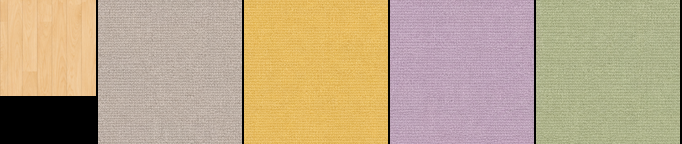
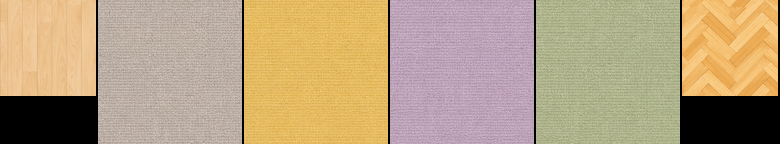
자작나무 사옥을 요정이 살 법한 거대한 나무 숲 위에 떠 있는 이끼 낀 섬의 숲속 사옥으로 바꿔, 섬 옆면에 흙과 늘어진 뿌리가 보이고, 헤링본 바닥과 아치 창의 업무 방, 판벽 서재, 요정 조명이 걸린 나무 아트리움, 카페 코너, 러그 위 소파 로비, 판벽 회의실로 레이아웃과 가구·장식을 새로 꾸몄다
- Codex로 숲 배경, 새 가구 9종, 벽 장식 12종, 러그 4종·헤링본·판벽 재질, 섬 옆면 띠를 만들었다
- 러그는 위에서 내려다본 그림을 바닥 마름모로 투영해 바닥 층에 깔아 사람이 밟고 지나가고, 벽 줄에 나무 판벽(Y·B)을 더했다
- 사옥 그림 묶음에 섬 옆면 띠가 있으면 바닥 판 옆면 대신 모서리를 따라 기울여 잇는다

diff --git a/src/web/lib/office/map-birch.ts b/src/web/lib/office/map-birch.ts
@@ -1,5 +1,6 @@
-// 자작나무 사옥(낮) 격자 지도. 위 BLOCKED 집중실, 오른쪽 WORKING 오픈 오피스, 왼쪽 DONE 로비(EXIT 유리문),
-// 아래 HANDOFF 유리 회의실, 가운데 큰 나무가 선 아트리움 홀. 칸 하나가 1m이고 x는 화면 오른쪽 아래, y는 왼쪽 아래로 뻗는다.
+// 자작나무 사옥(낮) 격자 지도: 요정 숲 위에 떠 있는 숲속 사옥. 위 BLOCKED 판벽 서재, 오른쪽 WORKING 헤링본 오픈 오피스,
+// 왼쪽 DONE 로비(EXIT 유리문), 아래 HANDOFF 유리 회의실, 가운데 요정 조명이 걸린 나무 아트리움과 카페 코너·독서 구석.
+// 섬 가장자리가 들쭉날쭉해 이끼·흙·뿌리 옆면이 드러난다. 칸 하나가 1m이고 x는 화면 오른쪽 아래, y는 왼쪽 아래로 뻗는다.
 import { deskGroup as desk, repeatRows as rows, type MapDef } from "./iso";
 import type { Theme } from "./world";
 
@@ -13,25 +14,33 @@ export const BIRCH_MAP: MapDef = {
   cols: 26, rows: 22,
   floor: rows([
     [8, "BBBBBBBBBHHHHWWWWWWWWWWWWW"],
-    [5, "HHHHHHHHHHHHHHHHHHHHHHHHHH"],
-    [1, "DDDDDDDDDHHHHHHHHHHHHHHHHH"],
-    [7, "DDDDDDDDDHHHHHFFFFFFFFHHHH"],
-    [1, "DDDDDDDDDHHHHHHHHHHHHHHHHH"],
+    [2, "HHHHHHHHHHHHHHHHHHHHHHHHHH"],
+    [3, "HHHHHHHHHHHHHHHHHHHHHHHH  "],
+    [1, "DDDDDDDDDHHHHHHHHHHHHHHH  "],
+    [7, "DDDDDDDDDHHHHHFFFFFFFHHH  "],
+    [1, "  DDDDDDDHHHHHHHHHHHH     "],
   ]),
   legend: {
     B: { zone: "blocked", floor: "mustard" },
-    W: { zone: "working", floor: "carpet" },
+    W: { zone: "working", floor: "herringbone" },
     H: { zone: "hall", floor: "wood" },
     D: { zone: "done", floor: "sage" },
     F: { zone: "handoff", floor: "lavender" },
   },
   walls: [
-    // 바깥 뒷벽(창)과 앞쪽 낮은 난간
+    // 바깥 뒷벽: 위는 아치 창이 난 흰 벽, 왼쪽은 서재 판벽·홀·로비(EXIT 유리문)
     { side: "n", x: 0, y: 0, pattern: "W".repeat(26) },
-    { side: "w", x: 0, y: 0, pattern: `${"W".repeat(17)}EE${"W".repeat(3)}` },
-    { side: "n", x: 0, y: 22, pattern: "L".repeat(26) },
-    { side: "w", x: 26, y: 0, pattern: "L".repeat(22) },
-    // BLOCKED 집중실: 앞쪽 두 면이 유리, 오른쪽에 출입구
+    { side: "w", x: 0, y: 0, pattern: "YYYYYYYYWWWWWWWWWEEWW" },
+    // 들쭉날쭉한 섬 가장자리의 낮은 난간
+    { side: "w", x: 26, y: 0, pattern: "L".repeat(10) },
+    { side: "n", x: 24, y: 10, pattern: "LL" },
+    { side: "w", x: 24, y: 10, pattern: "L".repeat(11) },
+    { side: "n", x: 21, y: 21, pattern: "LLL" },
+    { side: "w", x: 21, y: 21, pattern: "L" },
+    { side: "n", x: 2, y: 22, pattern: "L".repeat(19) },
+    { side: "n", x: 0, y: 21, pattern: "LL" },
+    { side: "w", x: 2, y: 21, pattern: "L" },
+    // BLOCKED 서재: 앞쪽 두 면이 유리, 오른쪽에 출입구
     { side: "n", x: 0, y: 8, pattern: "GGGGGGGGG" },
     { side: "w", x: 9, y: 0, pattern: "GGGGdGGG" },
     // WORKING: 낮은 칸막이와 트인 통로
@@ -40,24 +49,23 @@ export const BIRCH_MAP: MapDef = {
     // DONE 로비: 유리 벽과 출입구 둘
     { side: "n", x: 0, y: 13, pattern: "GGGGGGdGG" },
     { side: "w", x: 9, y: 13, pattern: "GGdGGGGGG" },
-    // HANDOFF 회의실: 뒤 두 면은 흰 벽, 앞 두 면은 유리
-    { side: "n", x: 14, y: 14, pattern: "WWWWWWWW" },
-    { side: "w", x: 14, y: 14, pattern: "WWWDWWW" },
-    { side: "n", x: 14, y: 21, pattern: "GGGGGGGG" },
-    { side: "w", x: 22, y: 14, pattern: "GGGGGGG" },
+    // HANDOFF 회의실: 뒤 두 면은 나무 판벽, 앞 두 면은 유리
+    { side: "n", x: 14, y: 14, pattern: "YYYYYYY" },
+    { side: "w", x: 14, y: 14, pattern: "YYYBYYY" },
+    { side: "n", x: 14, y: 21, pattern: "GGGGGGG" },
+    { side: "w", x: 21, y: 14, pattern: "GGGGGGG" },
   ],
   decor: [
-    ...[0, 1, 7, 8, 9, 10, 11, 12, 13, 14, 15, 20, 21, 22, 23, 24, 25].map((x) => ({ side: "n" as const, x, y: 0, sprite: "window" })),
-    ...[0, 1, 4, 6, 7, 8, 9, 11, 12].map((y) => ({ side: "w" as const, x: 0, y, sprite: "window" })),
-    { side: "w", x: 0, y: 10, sprite: "art1" },
-    { side: "w", x: 0, y: 2, sprite: "felt" }, { side: "w", x: 0, y: 3, sprite: "felt" },
-    { side: "w", x: 0, y: 17, sprite: "exit" },
-    { side: "w", x: 0, y: 16, sprite: "sconce" }, { side: "w", x: 0, y: 19, sprite: "sconce" },
-    { side: "w", x: 0, y: 20, sprite: "art2" },
+    ...[0, 1, 7, 8, 9, 10, 11, 12, 13, 14, 15, 22, 23, 24, 25].map((x) => ({ side: "n" as const, x, y: 0, sprite: "archWindow" })),
+    { side: "n", x: 20, y: 0, sprite: "moss" },
+    { side: "w", x: 0, y: 1, sprite: "fern" }, { side: "w", x: 0, y: 3, sprite: "shelf" },
+    { side: "w", x: 0, y: 6, sprite: "archWindow" }, { side: "w", x: 0, y: 7, sprite: "archWindow" },
+    ...[8, 9, 11, 12].map((y) => ({ side: "w" as const, x: 0, y, sprite: "archWindow" })),
+    { side: "w", x: 0, y: 10, sprite: "lantern" },
+    { side: "w", x: 0, y: 16, sprite: "lantern" }, { side: "w", x: 0, y: 17, sprite: "exit" },
+    { side: "w", x: 0, y: 19, sprite: "lantern" }, { side: "w", x: 0, y: 20, sprite: "macrame" },
     { side: "n", x: 19, y: 14, sprite: "tv" },
-    { side: "n", x: 21, y: 14, sprite: "clock" },
-    { side: "w", x: 14, y: 15, sprite: "whiteboard" },
-    { side: "w", x: 14, y: 19, sprite: "art1" },
+    { side: "w", x: 14, y: 15, sprite: "pinboard" }, { side: "w", x: 14, y: 19, sprite: "forestArt" },
   ],
   signs: [
     { side: "n", x: 2, y: 0, span: 5, title: "Blocked", sub: "입력 대기", zone: "blocked" },
@@ -68,26 +76,34 @@ export const BIRCH_MAP: MapDef = {
   ],
   items: [
     ...desks.flatMap((entry) => entry.items),
-    // BLOCKED
-    { sprite: "fig", x: 0, y: 0 }, { sprite: "cabinet", x: 3, y: 1 }, { sprite: "plant", x: 4, y: 1 },
-    { sprite: "bookshelf", x: 0, y: 2, flip: true }, { sprite: "lamp", x: 8, y: 7 }, { sprite: "plant", x: 8, y: 0 },
-    // WORKING
-    { sprite: "bookshelf", x: 16, y: 0 }, { sprite: "sideboard", x: 20, y: 0 }, { sprite: "printer", x: 25, y: 0 },
-    { sprite: "fig", x: 13, y: 0 }, { sprite: "cooler", x: 25, y: 3 }, { sprite: "fig", x: 25, y: 7 },
+    // BLOCKED 서재: 아치 책장과 레몬 나무, 둥근 짚 러그 위 푸프
+    { sprite: "monstera", x: 0, y: 0 }, { sprite: "archshelf", x: 3, y: 1 }, { sprite: "lemon", x: 4, y: 1 },
+    { sprite: "ladder", x: 8, y: 0 }, { sprite: "rugJute", x: 3, y: 4 }, { sprite: "poufs", x: 4, y: 5 },
+    { sprite: "lamp", x: 8, y: 7 }, { sprite: "plant", x: 0, y: 7 },
+    // WORKING: 헤링본 바닥, 창가 책장·사이드보드, 앞쪽 화단
+    { sprite: "monstera", x: 13, y: 0 }, { sprite: "archshelf", x: 16, y: 0 }, { sprite: "archshelf", x: 17, y: 0 },
+    { sprite: "sideboard", x: 20, y: 0 }, { sprite: "ladder", x: 24, y: 0 }, { sprite: "printer", x: 25, y: 0 },
+    { sprite: "cooler", x: 25, y: 3 }, { sprite: "lemon", x: 25, y: 7 },
     { sprite: "planter", x: 14, y: 7 }, { sprite: "planter", x: 22, y: 7 }, { sprite: "plant", x: 13, y: 7 },
-    // 홀
-    { sprite: "tree", x: 10, y: 9 }, { sprite: "bench", x: 14, y: 10 }, { sprite: "bench", x: 5, y: 10 },
-    { sprite: "lamp", x: 9, y: 8 }, { sprite: "plant", x: 12, y: 12 }, { sprite: "fig", x: 25, y: 8 },
-    { sprite: "planter", x: 23, y: 21 }, { sprite: "fig", x: 25, y: 13 }, { sprite: "bench", x: 23, y: 17, flip: true },
-    { sprite: "plant", x: 13, y: 21 }, { sprite: "lamp", x: 0, y: 8 },
-    // DONE 로비
+    // 홀: 요정 조명 나무 아트리움, 독서 구석, 카페 코너
+    { sprite: "fairytree", x: 10, y: 9 },
+    { sprite: "rugMoss", x: 4, y: 10 }, { sprite: "boucle", x: 4, y: 10 }, { sprite: "poufs", x: 5, y: 11 },
+    { sprite: "ladder", x: 2, y: 8 }, { sprite: "lamp", x: 0, y: 8 },
+    { sprite: "rugLeaf", x: 14, y: 10 }, { sprite: "bench", x: 15, y: 11 }, { sprite: "monstera", x: 23, y: 9 },
+    { sprite: "planter", x: 19, y: 12 },
+    { sprite: "coffeebar", x: 22, y: 13 }, { sprite: "communal", x: 22, y: 15, flip: true },
+    { sprite: "poufs", x: 23, y: 19 }, { sprite: "lemon", x: 23, y: 20 },
+    { sprite: "bench", x: 9, y: 18, flip: true }, { sprite: "monstera", x: 13, y: 20 }, { sprite: "planter", x: 17, y: 21 },
+    // DONE 로비: 둥근 짚 러그 위 소파·부클레 의자·탁자, 안내 데스크와 코트걸이
     { sprite: "reception", x: 1, y: 14 }, { sprite: "coatrack", x: 0, y: 13 },
-    { sprite: "sofa", x: 3, y: 16, flip: true }, { sprite: "armchair", x: 4, y: 15 }, { sprite: "coffee", x: 4, y: 16 },
-    { sprite: "fig", x: 8, y: 21 }, { sprite: "plant", x: 0, y: 21 }, { sprite: "lamp", x: 8, y: 14 },
-    // HANDOFF
-    { sprite: "meeting", x: 16, y: 16 }, { sprite: "mchair", x: 16, y: 18 }, { sprite: "mchair", x: 17, y: 18 },
+    { sprite: "rugJute", x: 3, y: 16 }, { sprite: "sofa", x: 3, y: 17, flip: true }, { sprite: "boucle", x: 4, y: 16 },
+    { sprite: "coffee", x: 4, y: 17 }, { sprite: "monstera", x: 8, y: 13 }, { sprite: "lamp", x: 8, y: 21 },
+    { sprite: "lemon", x: 2, y: 21 },
+    // HANDOFF: 둥근 러그 위 회의 탁자
+    { sprite: "rugJute", x: 16, y: 15 }, { sprite: "meeting", x: 16, y: 16 },
+    { sprite: "mchair", x: 16, y: 18 }, { sprite: "mchair", x: 17, y: 18 },
     { sprite: "mchairFront", x: 15, y: 16 }, { sprite: "mchairFront", x: 17, y: 15, flip: true },
-    { sprite: "fig", x: 21, y: 14 }, { sprite: "sideboard", x: 15, y: 20 }, { sprite: "plant", x: 21, y: 20 },
+    { sprite: "monstera", x: 20, y: 14 }, { sprite: "sideboard", x: 15, y: 20 }, { sprite: "plant", x: 20, y: 20 },
   ],
   seats: [
     ...desks.flatMap((entry) => entry.seats),
@@ -96,35 +112,35 @@ export const BIRCH_MAP: MapDef = {
     { id: "h-3", zone: "handoff", x: 15, y: 16, kind: "lounge" },
     { id: "h-4", zone: "handoff", x: 17, y: 15, kind: "lounge", flip: true },
     { id: "h-5", zone: "handoff", x: 19, y: 17, kind: "stand", view: "back", flip: true },
-    { id: "d-sofa1", zone: "done", x: 3, y: 16, kind: "lounge" },
-    { id: "d-sofa2", zone: "done", x: 3, y: 17, kind: "lounge" },
-    { id: "d-arm", zone: "done", x: 4, y: 15, kind: "lounge", flip: true },
+    { id: "d-sofa1", zone: "done", x: 3, y: 17, kind: "lounge" },
+    { id: "d-sofa2", zone: "done", x: 3, y: 18, kind: "lounge" },
+    { id: "d-arm", zone: "done", x: 4, y: 16, kind: "lounge", flip: true },
     { id: "d-1", zone: "done", x: 6, y: 15, kind: "stand", view: "front", flip: true },
     { id: "d-2", zone: "done", x: 6, y: 18, kind: "stand", view: "front" },
     { id: "d-3", zone: "done", x: 2, y: 19, kind: "stand", view: "front" },
     { id: "d-4", zone: "done", x: 5, y: 20, kind: "stand", view: "front", flip: true },
     { id: "d-5", zone: "done", x: 7, y: 17, kind: "stand", view: "back", flip: true },
-    { id: "d-6", zone: "done", x: 3, y: 21, kind: "stand", view: "back" },
+    { id: "d-6", zone: "done", x: 4, y: 21, kind: "stand", view: "back" },
     { id: "d-7", zone: "done", x: 7, y: 20, kind: "stand", view: "front", flip: true },
   ],
   hall: {
     center: [13, 10],
-    spawn: [[12, 8], [9, 11], [13, 12], [16, 9], [20, 11], [11, 15], [4, 12], [23, 10]],
-    wander: [[8, 9], [12, 11], [9, 12], [16, 12], [18, 9], [21, 12], [3, 10], [11, 18], [24, 15], [7, 12], [10, 20], [19, 11]],
+    spawn: [[13, 8], [9, 10], [14, 12], [16, 9], [20, 11], [11, 17], [3, 12], [21, 16]],
+    wander: [[8, 9], [13, 9], [9, 12], [17, 12], [19, 9], [21, 11], [2, 10], [11, 15], [11, 19], [21, 18], [15, 21], [7, 12]],
   },
   exit: [0, 17],
-  logo: { x: 19.5, y: 10, text: "RELAY" },
+  logo: { x: 19, y: 10, text: "RELAY" },
 };
 
 export const BIRCH_THEME: Theme = {
-  sky: ["#cfe5f2", "#f4efe3"],
-  glow: "rgba(255, 255, 255, 0.22)",
-  slab: ["#d8cbb3", "#bfae92"],
+  sky: ["#dcefd6", "#f4f0de"],
+  glow: "rgba(255, 248, 214, 0.2)",
+  slab: ["#7a5a3a", "#5f452c"],
   grid: "rgba(70, 50, 20, 0.07)",
   shade: 0.85,
   sign: "plate",
-  logo: "rgba(120, 88, 46, 0.34)",
-  ghost: "rgba(70, 96, 150, 0.85)",
-  backdrop: "/office/backdrop-birch.webp?v=1",
-  drop: "rgba(96, 68, 32, 0.42)",
+  logo: "rgba(120, 88, 46, 0.2)",
+  ghost: "rgba(70, 110, 80, 0.85)",
+  backdrop: "/office/backdrop-birch.webp?v=2",
+  drop: "rgba(40, 64, 24, 0.38)",
 };

diff --git a/src/web/lib/office/kit-birch.ts b/src/web/lib/office/kit-birch.ts
@@ -1,4 +1,4 @@
 // 자작나무 사옥 그림 묶음. 저장소 밖 작업 폴더(output/office/kit)의 build_kit.py가 만든다. 손으로 고치지 않는다.
 import type { Kit } from "./iso";
 
-export const BIRCH_KIT: Kit = {"atlas":"/office/kit-birch.png?v=1","floors":"/office/floors-birch.png?v=1","floorTiles":{"wood":[0,0,96,2],"carpet":[98,0,144,3],"mustard":[244,0,144,3],"lavender":[390,0,144,3],"sage":[536,0,144,3]},"items":{"desk":{"r":[388,191,96,73],"a":[32,25],"f":[2,1]},"bookshelf":{"r":[94,191,94,79],"a":[31,31],"f":[2,1]},"cabinet":{"r":[390,279,45,52],"a":[22,28],"f":[1,1]},"sofa":{"r":[247,191,94,74],"a":[31,26],"f":[2,1]},"armchair":{"r":[856,191,61,64],"a":[30,32],"f":[1,1]},"coffee":{"r":[147,279,61,57],"a":[23,40],"f":[1,1]},"meeting":{"r":[241,0,154,111],"a":[61,31],"f":[3,2]},"reception":{"r":[737,0,128,100],"a":[64,36],"f":[2,2]},"bench":{"r":[57,279,88,57],"a":[28,9],"f":[2,1]},"plant":{"r":[865,279,26,34],"a":[14,15],"f":[1,1]},"fig":{"r":[343,191,43,74],"a":[22,54],"f":[1,1]},"planter":{"r":[0,191,92,86],"a":[30,38],"f":[2,1]},"coatrack":{"r":[707,191,37,66],"a":[20,44],"f":[1,1]},"cooler":{"r":[495,279,18,46],"a":[9,26],"f":[1,1]},"printer":{"r":[190,191,55,78],"a":[28,52],"f":[1,1]},"lamp":{"r":[552,191,25,70],"a":[12,50],"f":[1,1]},"tree":{"r":[0,0,151,189],"a":[74,125],"f":[2,2]},"sideboard":{"r":[867,0,92,99],"a":[30,51],"f":[2,1]},"chair":{"r":[579,279,33,44],"a":[16,28],"cover":true,"f":[1,1]},"mchair":{"r":[720,279,33,38],"a":[16,22],"cover":true,"f":[1,1]},"mchairFront":{"r":[755,279,28,38],"a":[14,22],"f":[1,1]}},"walls":{"wall":{"n":{"r":[153,0,42,112],"a":[5,92]},"w":{"r":[197,0,42,112],"a":[37,92]}},"glass":{"n":{"r":[397,0,38,110],"a":[3,91]},"w":{"r":[437,0,38,110],"a":[35,91]}},"header":{"n":{"r":[632,279,42,38],"a":[5,92]},"w":{"r":[676,279,42,38],"a":[37,92]}},"glassHeader":{"n":{"r":[785,279,38,36],"a":[3,91]},"w":{"r":[825,279,38,36],"a":[35,91]}},"low":{"n":{"r":[210,279,42,54],"a":[5,34]},"w":{"r":[254,279,42,54],"a":[37,34]}}},"posts":{"wall":{"r":[961,0,16,98],"a":[8,93]},"glass":{"r":[979,0,10,96],"a":[5,92]},"low":{"r":[614,279,16,40],"a":[8,35]}},"decor":{"window":{"span":1,"n":{"r":[486,191,31,72],"a":[2,72]},"w":{"r":[519,191,31,72],"a":[29,72]}},"exit":{"span":2,"n":{"r":[477,0,63,106],"a":[2,72]},"w":{"r":[542,0,63,106],"a":[61,72]}},"exitOpen":{"span":2,"n":{"r":[607,0,63,106],"a":[2,72]},"w":{"r":[672,0,63,106],"a":[61,72]}},"whiteboard":{"span":2,"n":{"r":[579,191,62,67],"a":[2,55]},"w":{"r":[643,191,62,67],"a":[60,55]}},"tv":{"span":2,"n":{"r":[919,191,55,62],"a":[-2,54]},"w":{"r":[0,279,55,62],"a":[57,54]}},"cork":{"span":2,"n":{"r":[746,191,53,65],"a":[-3,55]},"w":{"r":[801,191,53,65],"a":[56,55]}},"art1":{"span":1,"n":{"r":[437,279,27,48],"a":[0,65]},"w":{"r":[466,279,27,48],"a":[27,65]}},"art2":{"span":2,"n":{"r":[298,279,44,53],"a":[-7,59]},"w":{"r":[344,279,44,53],"a":[51,59]}},"clock":{"span":1,"n":{"r":[893,279,21,31],"a":[-3,75]},"w":{"r":[916,279,21,31],"a":[24,75]}},"sconce":{"span":1,"n":{"r":[939,279,17,27],"a":[-5,62]},"w":{"r":[958,279,17,27],"a":[22,62]}},"felt":{"span":1,"n":{"r":[515,279,30,45],"a":[2,59]},"w":{"r":[547,279,30,45],"a":[28,59]}}}};
+export const BIRCH_KIT: Kit = {"atlas":"/office/kit-birch.png?v=3","floors":"/office/floors-birch.png?v=3","floorTiles":{"wood":[0,0,96,2],"carpet":[98,0,144,3],"mustard":[244,0,144,3],"lavender":[390,0,144,3],"sage":[536,0,144,3],"herringbone":[682,0,96,2]},"items":{"desk":{"r":[0,385,96,73],"a":[32,25],"f":[2,1]},"bookshelf":{"r":[380,299,94,79],"a":[31,31],"f":[2,1]},"cabinet":{"r":[903,460,45,52],"a":[22,28],"f":[1,1]},"sofa":{"r":[847,299,94,74],"a":[31,26],"f":[2,1]},"armchair":{"r":[656,385,61,64],"a":[30,32],"f":[1,1]},"coffee":{"r":[442,460,61,57],"a":[23,40],"f":[1,1]},"meeting":{"r":[538,0,154,111],"a":[61,31],"f":[3,2]},"reception":{"r":[263,191,128,100],"a":[64,36],"f":[2,2]},"bench":{"r":[352,460,88,57],"a":[28,9],"f":[2,1]},"plant":{"r":[718,524,26,34],"a":[14,15],"f":[1,1]},"fig":{"r":[943,299,43,74],"a":[22,54],"f":[1,1]},"planter":{"r":[694,191,92,86],"a":[30,38],"f":[2,1]},"coatrack":{"r":[507,385,37,66],"a":[20,44],"f":[1,1]},"cooler":{"r":[87,524,18,46],"a":[9,26],"f":[1,1]},"printer":{"r":[790,299,55,78],"a":[28,52],"f":[1,1]},"lamp":{"r":[164,385,25,70],"a":[12,50],"f":[1,1]},"tree":{"r":[0,0,151,189],"a":[74,125],"f":[2,2]},"sideboard":{"r":[393,191,92,99],"a":[30,51],"f":[2,1]},"chair":{"r":[171,524,33,44],"a":[16,28],"cover":true,"f":[1,1]},"mchair":{"r":[573,524,33,38],"a":[16,22],"cover":true,"f":[1,1]},"mchairFront":{"r":[608,524,28,38],"a":[14,22],"f":[1,1]},"coffeebar":{"r":[232,299,96,80],"a":[32,32],"f":[2,1]},"monstera":{"r":[453,385,52,66],"a":[26,44],"f":[1,1]},"ladder":{"r":[123,460,44,60],"a":[22,33],"f":[1,1]},"poufs":{"r":[316,524,61,40],"a":[43,16],"f":[1,1]},"communal":{"r":[487,191,157,98],"a":[62,18],"f":[3,2]},"boucle":{"r":[287,460,63,58],"a":[32,26],"f":[1,1]},"fairytree":{"r":[153,0,207,172],"a":[102,87],"f":[3,3]},"archshelf":{"r":[330,299,48,80],"a":[26,53],"f":[1,1]},"lemon":{"r":[950,460,37,50],"a":[18,31],"f":[1,1]},"rugJute":{"r":[65,191,196,100],"a":[98,2],"floor":true,"f":[3,3]},"rugLeaf":{"r":[788,191,164,84],"a":[66,2],"floor":true,"f":[3,2]},"rugKilim":{"r":[0,299,164,84],"a":[66,2],"floor":true,"f":[3,2]},"rugMoss":{"r":[191,385,132,68],"a":[66,2],"floor":true,"f":[2,2]}},"walls":{"wall":{"n":{"r":[362,0,42,112],"a":[5,92]},"w":{"r":[406,0,42,112],"a":[37,92]}},"glass":{"n":{"r":[694,0,38,110],"a":[3,91]},"w":{"r":[734,0,38,110],"a":[35,91]}},"header":{"n":{"r":[397,524,42,38],"a":[5,92]},"w":{"r":[441,524,42,38],"a":[37,92]}},"glassHeader":{"n":{"r":[638,524,38,36],"a":[3,91]},"w":{"r":[678,524,38,36],"a":[35,91]}},"low":{"n":{"r":[723,460,42,54],"a":[5,34]},"w":{"r":[767,460,42,54],"a":[37,34]}},"wood":{"n":{"r":[450,0,42,112],"a":[5,92]},"w":{"r":[494,0,42,112],"a":[37,92]}},"woodHeader":{"n":{"r":[485,524,42,38],"a":[5,92]},"w":{"r":[529,524,42,38],"a":[37,92]}}},"posts":{"wall":{"r":[646,191,16,98],"a":[8,93]},"glass":{"r":[682,191,10,96],"a":[5,92]},"low":{"r":[379,524,16,40],"a":[8,35]},"wood":{"r":[664,191,16,98],"a":[8,93]}},"decor":{"window":{"span":1,"n":{"r":[98,385,31,72],"a":[2,72]},"w":{"r":[131,385,31,72],"a":[29,72]}},"exit":{"span":2,"n":{"r":[774,0,63,106],"a":[2,72]},"w":{"r":[839,0,63,106],"a":[61,72]}},"exitOpen":{"span":2,"n":{"r":[904,0,63,106],"a":[2,72]},"w":{"r":[0,191,63,106],"a":[61,72]}},"whiteboard":{"span":2,"n":{"r":[325,385,62,67],"a":[2,55]},"w":{"r":[389,385,62,67],"a":[60,55]}},"tv":{"span":2,"n":{"r":[953,385,55,62],"a":[-2,54]},"w":{"r":[0,460,55,62],"a":[57,54]}},"cork":{"span":2,"n":{"r":[546,385,53,65],"a":[-3,55]},"w":{"r":[601,385,53,65],"a":[56,55]}},"art1":{"span":1,"n":{"r":[989,460,27,48],"a":[0,65]},"w":{"r":[0,524,27,48],"a":[27,65]}},"art2":{"span":2,"n":{"r":[811,460,44,53],"a":[-7,59]},"w":{"r":[857,460,44,53],"a":[51,59]}},"clock":{"span":1,"n":{"r":[746,524,21,31],"a":[-3,75]},"w":{"r":[769,524,21,31],"a":[24,75]}},"sconce":{"span":1,"n":{"r":[876,524,17,27],"a":[-5,62]},"w":{"r":[895,524,17,27],"a":[22,62]}},"felt":{"span":1,"n":{"r":[107,524,30,45],"a":[2,59]},"w":{"r":[139,524,30,45],"a":[28,59]}},"archWindow":{"span":1,"n":{"r":[166,299,31,84],"a":[2,74]},"w":{"r":[199,299,31,84],"a":[29,74]}},"moss":{"span":2,"n":{"r":[719,385,60,64],"a":[1,58]},"w":{"r":[781,385,60,64],"a":[59,58]}},"slats":{"span":1,"n":{"r":[57,460,31,62],"a":[2,66]},"w":{"r":[90,460,31,62],"a":[29,66]}},"fern":{"span":1,"n":{"r":[29,524,27,48],"a":[0,63]},"w":{"r":[58,524,27,48],"a":[27,63]}},"mirror":{"span":1,"n":{"r":[256,524,28,43],"a":[1,61]},"w":{"r":[286,524,28,43],"a":[27,61]}},"shelf":{"span":2,"n":{"r":[601,460,59,54],"a":[0,61]},"w":{"r":[662,460,59,54],"a":[59,61]}},"macrame":{"span":1,"n":{"r":[206,524,23,44],"a":[-2,62]},"w":{"r":[231,524,23,44],"a":[25,62]}},"forestArt":{"span":2,"n":{"r":[505,460,46,56],"a":[-6,58]},"w":{"r":[553,460,46,56],"a":[52,58]}},"ivy":{"span":2,"n":{"r":[169,460,57,59],"a":[-1,66]},"w":{"r":[228,460,57,59],"a":[58,66]}},"lantern":{"span":1,"n":{"r":[838,524,17,30],"a":[-5,63]},"w":{"r":[857,524,17,30],"a":[22,63]}},"pinboard":{"span":2,"n":{"r":[843,385,53,63],"a":[-3,55]},"w":{"r":[898,385,53,63],"a":[56,55]}},"clock2":{"span":1,"n":{"r":[792,524,21,31],"a":[-3,75]},"w":{"r":[815,524,21,31],"a":[24,75]}}},"edge":{"r":[476,299,312,78],"a":[0,6]}};

diff --git a/src/web/lib/office/world.ts b/src/web/lib/office/world.ts
@@ -249,13 +249,13 @@ export class World {
       const sprite = kit.walls[wall.kind]![wall.side];
       const [x, y] = this.point(wall.x, wall.y);
       const box: Drawable["box"] = wall.side === "n" ? [wall.x, wall.x + 1, wall.y - THIN, wall.y + THIN] : [wall.x - THIN, wall.x + THIN, wall.y, wall.y + 1];
-      list.push({ box, layer: 0, solid: wall.kind === "wall" || wall.kind === "header", rect: this.spriteRect(sprite, x, y), paint: (context) => this.blitSprite(context, sprite, x, y) });
+      list.push({ box, layer: 0, solid: wall.kind === "wall" || wall.kind === "header" || wall.kind === "wood" || wall.kind === "woodHeader", rect: this.spriteRect(sprite, x, y), paint: (context) => this.blitSprite(context, sprite, x, y) });
     }
     for (const post of plan.posts) {
       const sprite = kit.posts[post.kind];
       if (!sprite) continue;
       const [x, y] = this.point(post.x, post.y);
-      list.push({ box: [post.x - THIN, post.x + THIN, post.y - THIN, post.y + THIN], layer: 0, solid: post.kind === "wall", rect: this.spriteRect(sprite, x, y), paint: (context) => this.blitSprite(context, sprite, x, y) });
+      list.push({ box: [post.x - THIN, post.x + THIN, post.y - THIN, post.y + THIN], layer: 0, solid: post.kind === "wall" || post.kind === "wood", rect: this.spriteRect(sprite, x, y), paint: (context) => this.blitSprite(context, sprite, x, y) });
     }
     for (const decor of plan.map.decor ?? []) {
       const entry = kit.decor[decor.sprite];
@@ -268,7 +268,8 @@ export class World {
       list.push({ box, layer: 0, rect: this.spriteRect(sprite, x, y), paint: (context) => this.blitSprite(context, open && this.exitOpen ? open : sprite, x, y) });
     }
     for (const sign of plan.map.signs ?? []) list.push(this.signDrawable(sign));
-    for (const item of plan.items) list.push(this.itemDrawable(item));
+    // 바닥 깔개(러그)는 바닥 층에 그렸으므로 앞뒤를 가릴 필요가 없다.
+    for (const item of plan.items) if (!item.item.floor) list.push(this.itemDrawable(item));
     return list;
   }
 
@@ -360,11 +361,19 @@ export class World {
     context.restore();
 
     // 바닥 판 옆면: 아래쪽(+y)과 오른쪽(+x)이 바깥인 칸의 모서리를 판 두께만큼 내려 그린다.
+    // 섬 옆면 띠가 있으면(자작나무 사옥) 이끼·흙·늘어진 뿌리 띠를 모서리를 따라 기울여 잇는다.
     context.setTransform(1, 0, 0, 1, 0, 0);
+    const edge = kit.edge ? this.edgePattern(context, kit.edge) : null;
     for (let y = 0; y < grid.rows; y++) for (let x = 0; x < grid.cols; x++) {
       if (!cellOf(x, y)) continue;
-      if (!cellOf(x, y + 1)) this.slabFace(context, this.point(x, y + 1), this.point(x + 1, y + 1), theme.slab[0]);
-      if (!cellOf(x + 1, y)) this.slabFace(context, this.point(x + 1, y + 1), this.point(x + 1, y), theme.slab[1]);
+      if (!cellOf(x, y + 1)) {
+        if (edge) this.edgeFace(context, edge, this.point(x, y + 1), this.point(x + 1, y + 1), this.point(0, y + 1), 0.5, 0.94);
+        else this.slabFace(context, this.point(x, y + 1), this.point(x + 1, y + 1), theme.slab[0]);
+      }
+      if (!cellOf(x + 1, y)) {
+        if (edge) this.edgeFace(context, edge, this.point(x + 1, y + 1), this.point(x + 1, y), this.point(x + 1, 0), -0.5, 0.8);
+        else this.slabFace(context, this.point(x + 1, y + 1), this.point(x + 1, y), theme.slab[1]);
+      }
     }
 
     // 재질마다 칸을 한 경로로 모아 이음매 없이 채운다.
@@ -414,6 +423,15 @@ export class World {
       if (down && down !== here) { context.moveTo(x, y + 1); context.lineTo(x + 1, y + 1); }
     }
     context.stroke();
+
+    // 바닥 깔개(러그): 재질·칸 선 위, 벽·가구 그늘 아래에 깐다. 사람이 밟고 지나간다.
+    context.setTransform(1, 0, 0, 1, 0, 0);
+    for (const item of plan.items) {
+      if (!item.item.floor) continue;
+      const [x, y] = this.point(item.x, item.y);
+      this.blitSprite(context, item.item, x, y, item.flip);
+    }
+    iso();
 
     // 벽 아래 그늘: 벽 양쪽 바닥으로 번지는 그러데이션. 바닥이 있는 칸 밖으로는 새지 않게 자른다.
     const clip = this.floorClip();
@@ -473,6 +491,32 @@ export class World {
     const path = new Path2D();
     for (let y = 0; y < grid.rows; y++) for (let x = 0; x < grid.cols; x++) if (this.plan.floors[y * grid.cols + x]) path.rect(x, y, 1, 1);
     return path;
+  }
+
+  /** 섬 옆면 띠를 무늬로 만든다(가로로만 되풀이). */
+  private edgePattern(context: CanvasRenderingContext2D, sprite: KitSprite) {
+    const [sx, sy, sw, sh] = sprite.r;
+    const strip = document.createElement("canvas");
+    strip.width = sw; strip.height = sh;
+    strip.getContext("2d")!.drawImage(this.atlas, sx, sy, sw, sh, 0, 0, sw, sh);
+    return { pattern: context.createPattern(strip, "repeat-x")!, height: sh, lift: sprite.a[1] };
+  }
+
+  /** 섬 옆면 한 칸: a→b 모서리 아래로 띠를 기울여 붙인다. origin은 그 모서리 줄의 기준점(띠가 줄을 따라 끊김 없이 이어진다), shade는 면 밝기 */
+  private edgeFace(context: CanvasRenderingContext2D, edge: { pattern: CanvasPattern; height: number; lift: number }, a: Point, b: Point, origin: Point, slope: number, shade: number) {
+    const top = edge.lift;
+    edge.pattern.setTransform(new DOMMatrix([1, slope, 0, 1, origin[0], origin[1] - top]));
+    context.save();
+    context.fillStyle = edge.pattern;
+    context.beginPath();
+    context.moveTo(a[0], a[1] - top);
+    context.lineTo(b[0], b[1] - top);
+    context.lineTo(b[0], b[1] - top + edge.height);
+    context.lineTo(a[0], a[1] - top + edge.height);
+    context.closePath();
+    context.fill();
+    if (shade < 1) { context.globalCompositeOperation = "source-atop"; context.fillStyle = `rgba(0, 0, 0, ${1 - shade})`; context.fill(); }
+    context.restore();
   }
 
   private slabFace(context: CanvasRenderingContext2D, a: Point, b: Point, color: string) {

diff --git a/src/web/lib/office/iso.ts b/src/web/lib/office/iso.ts
@@ -42,11 +42,13 @@ export interface Kit {
   posts: Record<string, KitSprite>;
   /** 벽에 붙이는 장식(창·문·화이트보드…). span칸 길이이고 기준점은 첫 조각의 시작 꼭짓점 바닥이다. */
   decor: Record<string, { n: KitSprite; w: KitSprite; span: number }>;
+  /** 떠 있는 섬의 옆면 띠(왼쪽·오른쪽으로 이음매 없이 되풀이). 있으면 바닥 판 옆면 대신 그린다. */
+  edge?: KitSprite;
 }
 
 /**
  * 벽 한 줄. side가 n이면 (x, y) 칸의 위쪽 모서리부터 x로, w면 왼쪽 모서리부터 y로 pattern 글자 수만큼 뻗는다.
- * W 벽, G 유리 칸막이, L 낮은 벽, D 문 없는 출입구(위에 인방), d 유리 칸막이의 출입구, O 트인 통로(기둥만), o 낮은 벽의 트인 통로,
+ * W 벽, Y 나무 판벽, G 유리 칸막이, L 낮은 벽, D 문 없는 출입구(위에 인방), B 나무 판벽의 출입구, d 유리 칸막이의 출입구, O 트인 통로(기둥만), o 낮은 벽의 트인 통로,
  * E 출구 유리문(퇴근하는 세션이 나간다), 공백은 벽 없음.
  */
 export interface WallRun { side: Side; x: number; y: number; pattern: string }
@@ -100,6 +102,8 @@ export interface WorldPlan {
 /** 벽 글자 → 그릴 벽 조각 종류(없으면 그리지 않음)와 지나갈 수 있는지 */
 const WALL_KINDS: Record<string, { kind: string | null; post: string | null; pass: boolean }> = {
   W: { kind: "wall", post: "wall", pass: false },
+  Y: { kind: "wood", post: "wood", pass: false },
+  B: { kind: "woodHeader", post: "wood", pass: true },
   G: { kind: "glass", post: "glass", pass: false },
   L: { kind: "low", post: "low", pass: false },
   D: { kind: "header", post: "wall", pass: true },
@@ -141,7 +145,7 @@ export function planWorld(map: MapDef, kit: Kit): WorldPlan {
   const posts = new Map<string, { x: number; y: number; kind: string }>();
   const post = (x: number, y: number, kind: string) => {
     const key = `${x},${y}`;
-    const rank = (value: string) => ["low", "glass", "wall"].indexOf(value);
+    const rank = (value: string) => ["low", "glass", "wood", "wall"].indexOf(value);
     const before = posts.get(key);
     if (!before || rank(kind) > rank(before.kind)) posts.set(key, { x, y, kind });
   };

diff --git a/src/web/public/office/README.md b/src/web/public/office/README.md
@@ -8,11 +8,12 @@
 | --- | --- | --- |
 | `kit-night.png`·`kit-birch.png`·`kit-oak.png` | 사옥마다 그림 묶음(아틀라스): 가구·소품 21종, 벽 조각(벽·유리 칸막이·낮은 벽·출입구 인방, 두 방향), 기둥, 벽 장식(창·출구 유리문/엘리베이터 닫힘·열림·화이트보드·TV·코르크 보드·그림·시계·벽등·흡음판, 두 방향) | 사옥 그림을 화풍 참조로 가구·소품·의자 시트(쿼터뷰, 마젠타 키)와 벽 장식 시트(정면, 초록 키)를 생성 → `sprite-gen cutout --decontam palette`로 키 색 번짐 제거 → 덩어리별로 잘라 가구는 바닥 넓이(예: 책상 2×1)에 맞춰 줄이고, 벽 장식은 정면 그림을 벽 면 기울기로 붙이고, 벽 조각·기둥은 벽 재질 그림으로 칸 하나 길이씩 그렸다 |
 | `floors-night.png`·`floors-birch.png`·`floors-oak.png` | 바닥 재질(홀·구역마다 하나). 정사각형 재질이 이음매 없이 되풀이되며 몇 칸을 덮는지는 `kit-*.ts`의 `floorTiles`에 있다 | 재질 시트를 생성 → `sprite-gen background-tile`(가로·세로)로 이음매 없게 → 큰 얼룩을 눌러 바둑판처럼 보이지 않게 했다. 줄눈이 있는 석재는 시트 그대로 쓴다 |
-| `backdrop-night.webp`·`backdrop-birch.webp`·`backdrop-oak.webp` | 사무실 아래에 까는 사옥 배경: 야간 본사는 별이 뜬 밤하늘과 저 아래 반짝이는 도시, 자작나무 사옥은 햇살 드는 북유럽 가구 회사 쇼룸, 오크 사옥은 노을 진 대도시 스카이라인 | 지금 사옥 화면을 색 참조로 주고, 가운데는 사무실이 덮으니 차분하게 두고 풍경은 가장자리·귀퉁이에 두도록 생성(1672×941) → WebP 품질 84. 화면 가득(cover) 깔고 확대·이동할 때 사무실보다 덜 움직여 멀리 있는 풍경처럼 보인다. 사무실 아래에는 떠 있는 그림자를 깐다 |
+| `backdrop-night.webp`·`backdrop-birch.webp`·`backdrop-oak.webp` | 사무실 아래에 까는 사옥 배경: 야간 본사는 별이 뜬 밤하늘과 저 아래 반짝이는 도시, 자작나무 사옥은 요정이 살 법한 거대한 나무(문·창·랜턴·흔들다리·빛나는 버섯)가 선 숲, 오크 사옥은 노을 진 대도시 스카이라인 | 지금 사옥 화면을 색 참조로 주고, 가운데는 사무실이 덮으니 차분하게 두고 풍경은 가장자리·귀퉁이에 두도록 생성(1672×941) → WebP 품질 84. 화면 가득(cover) 깔고 확대·이동할 때 사무실보다 덜 움직여 멀리 있는 풍경처럼 보인다. 사무실 아래에는 떠 있는 그림자를 깐다 |
 | `worker.png` | 캐릭터 아틀라스. 51×64 칸, 몸체 2종 × 9줄(앞·뒤 대기, 앞·뒤 걷기, 앉기, 타이핑, 앉아 쉬기, 등 잡혀 버둥거리기, 소파에 앞 보고 앉기) | 보라 머리·하늘 셔츠·남색 바지의 재색칠용 베이스 → sprite-gen 방향 앵커(down45·up45) → 동작 행. 원본 배율로 추출한 뒤 머리 높이로 행 배율을 맞추고 40색 공용 팔레트로 줄였다 |
 | `badges.png` | 머리 위 상태 배지 5개(작업 중 말줄임, 막힘 느낌표, 인계 화살표, 완료 체크, 종료 잠) | 한 장에 생성한 뒤 조각마다 15px 높이로 줄였다 |
 
-- 사옥 지도(바닥 글자·벽 줄·장식·가구·좌석·홀 자리)는 `src/web/lib/office/map-night.ts`·`map-birch.ts`·`map-oak.ts`에 손으로 쓴다. 벽 줄 글자는 `W` 벽, `G` 유리, `L` 낮은 벽, `D`·`d` 출입구, `O`·`o` 트인 통로, `E` 출구 자리다.
+- 자작나무 사옥은 숲속 사옥이다: 그림 묶음에 카페 바·공용 테이블·몬스테라·사다리 선반·푸프·부클레 의자·요정 조명 나무·아치 책장·레몬 나무, 위에서 내려다본 러그 4종(바닥 마름모로 투영해 바닥 층에 깐다), 아치 창·이끼 벽·고사리 액자·랜턴 같은 벽 장식, 나무 판벽(`Y`·`B`)과 판재 난간, 헤링본 바닥이 더 있고, 바닥 판 옆면 대신 이끼·흙·늘어진 뿌리가 보이는 떠 있는 섬 옆면 띠(`kit.edge`)를 모서리를 따라 잇는다.
+- 사옥 지도(바닥 글자·벽 줄·장식·가구·좌석·홀 자리)는 `src/web/lib/office/map-night.ts`·`map-birch.ts`·`map-oak.ts`에 손으로 쓴다. 벽 줄 글자는 `W` 벽, `Y` 나무 판벽, `G` 유리, `L` 낮은 벽, `D`·`B`·`d` 출입구, `O`·`o` 트인 통로, `E` 출구 자리다.
 - 그림 묶음의 자리·기준점은 `kit-*.ts`에 있고 저장소 밖 작업 폴더(`output/office/kit`)의 `build_kit.py <사옥>`이 만든다. 손으로 고치지 않는다.
 - 지도는 `iso.ts`의 `planWorld`가 걷는 길·좌석·구역으로 풀고, `world.ts`가 바닥과 벽·가구를 한 층으로 그려 둔 뒤 매 프레임 캐릭터와 그 앞에 와야 할 벽·가구만 앞뒤 순서로 다시 그린다. 사람 키보다 높은 벽 뒤에 가린 캐릭터는 실루엣으로 보인다.
 - 끄는 동안의 표시(앉을 좌석 칸, 자리를 맞바꿀 동료 머리 위 ⇄)와 실제로 놓을 때의 결과는 `OfficeSim.dropTarget` 하나로 정한다.
